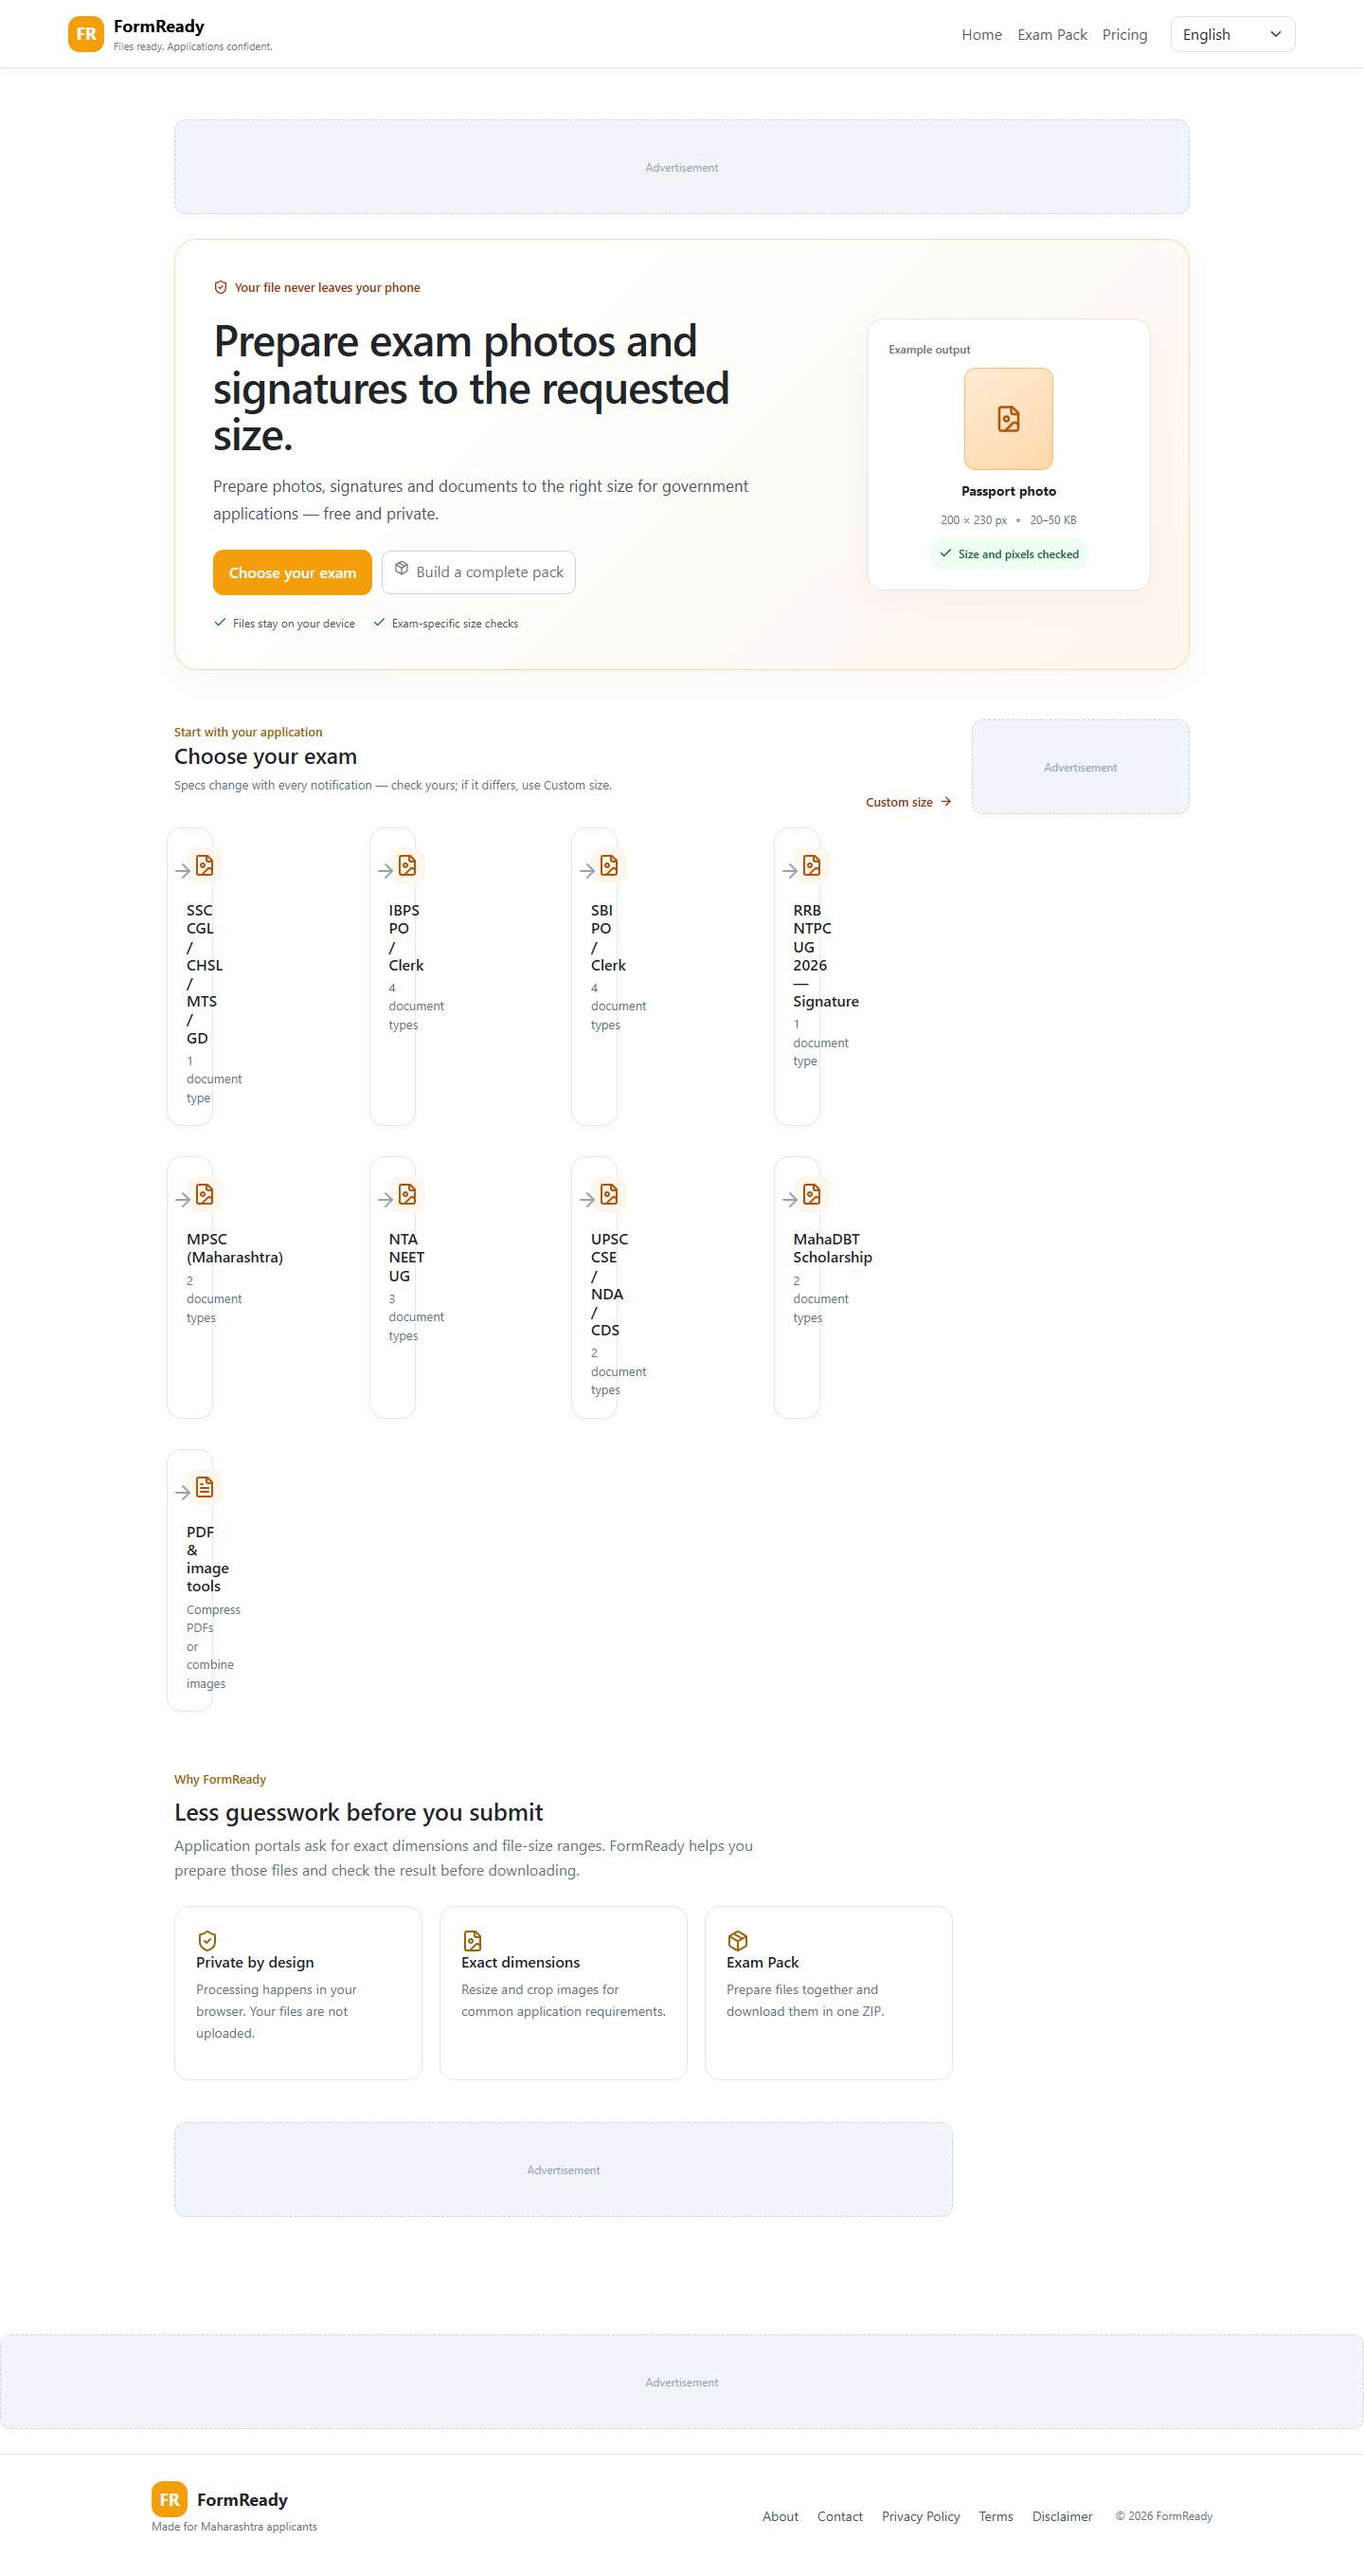
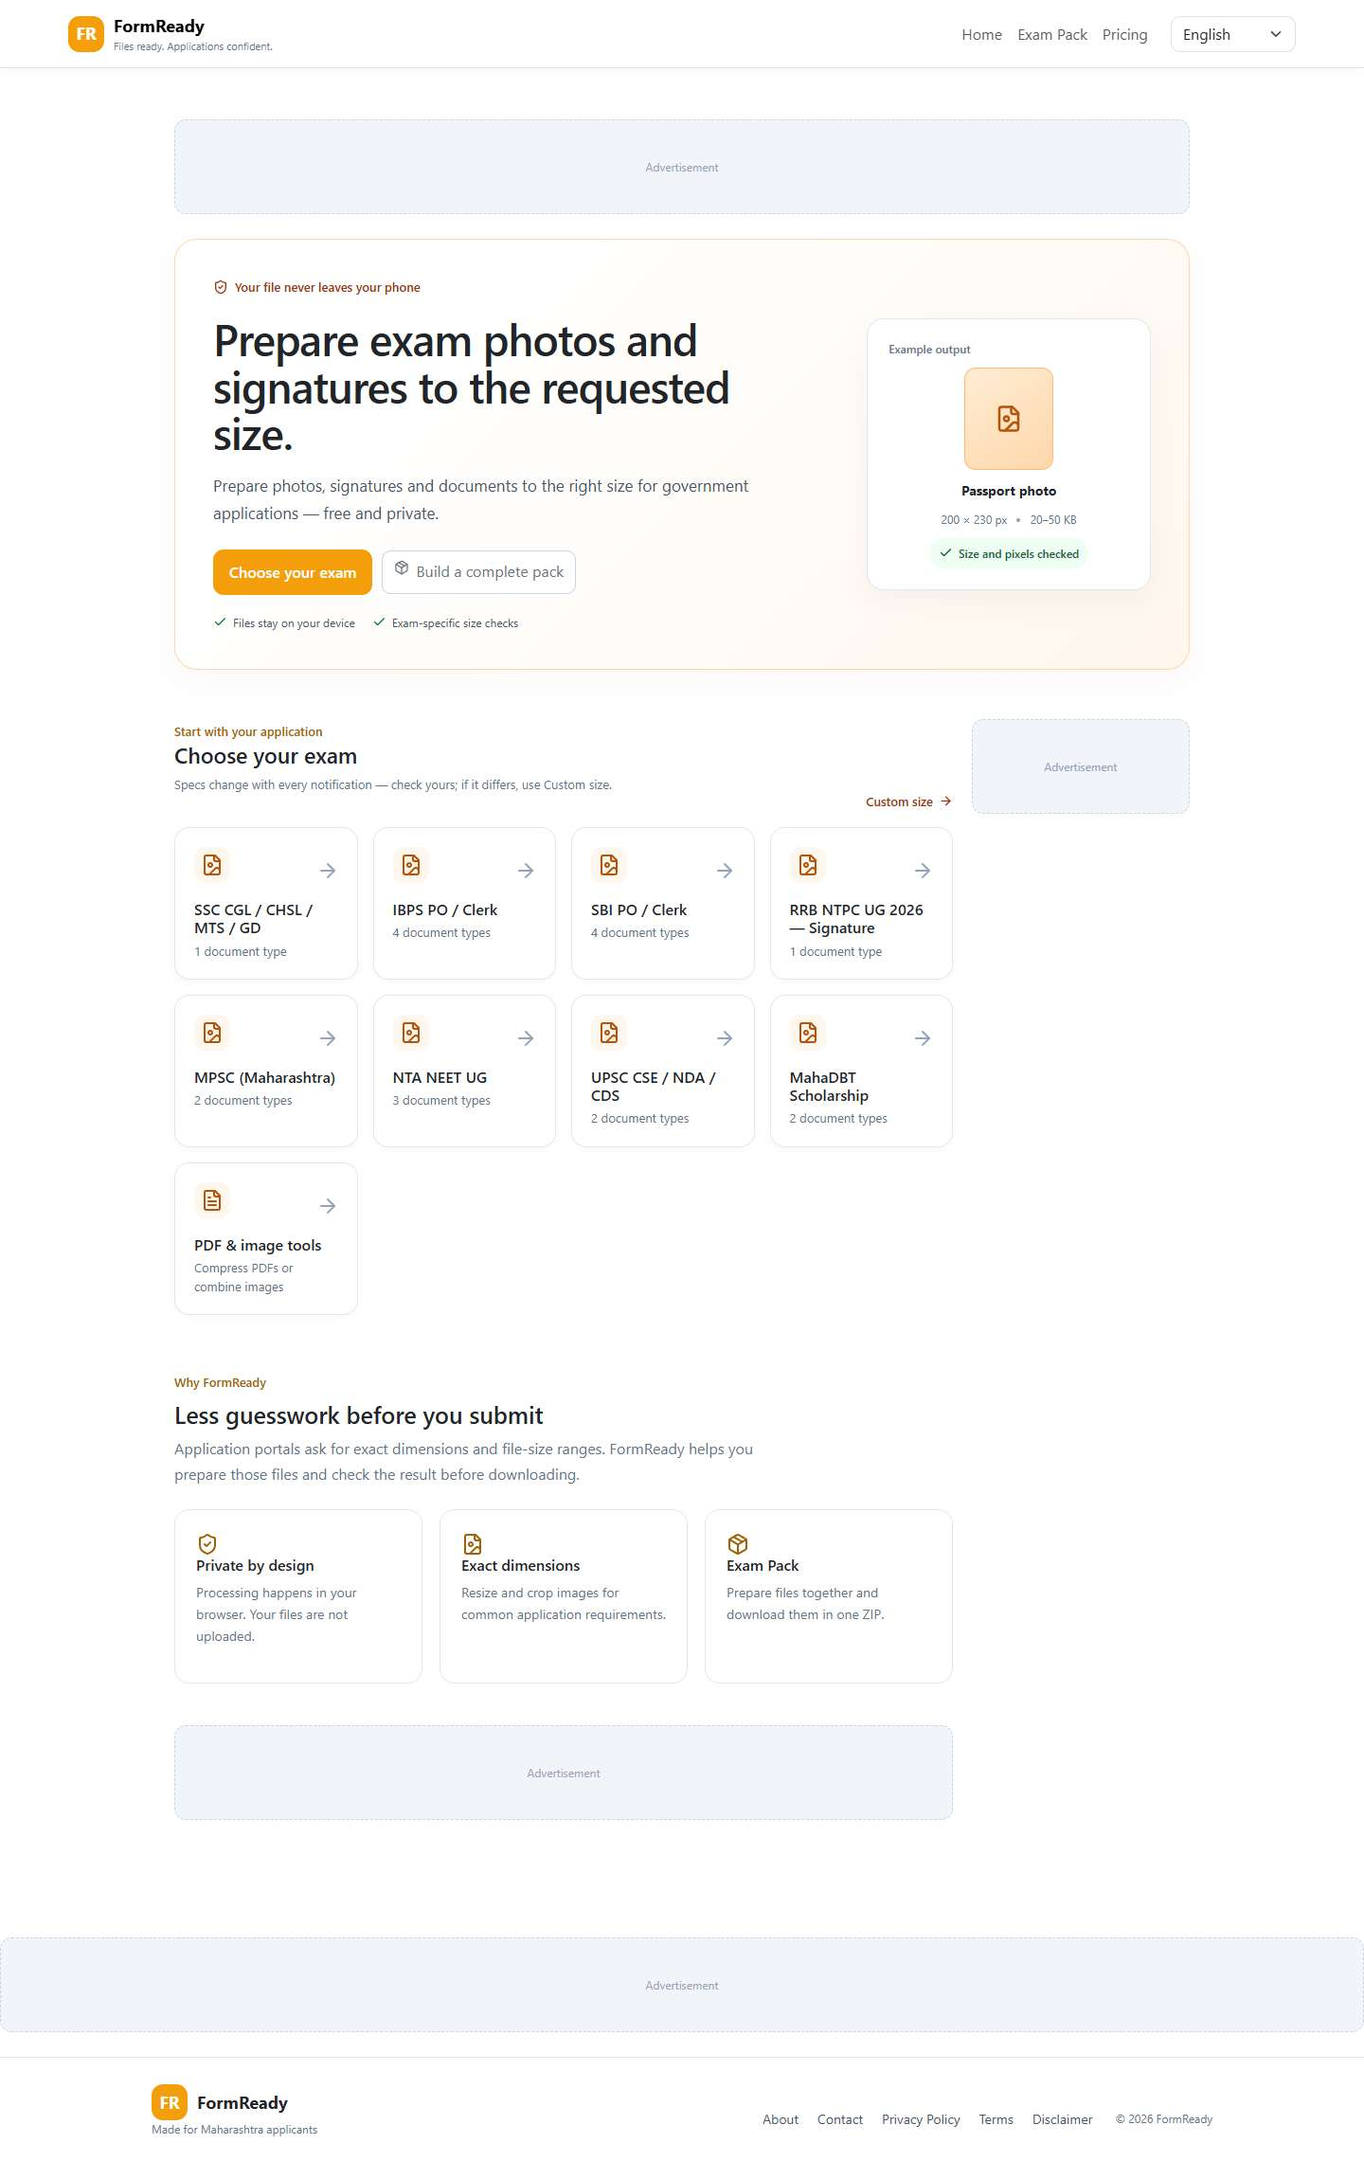
Fix responsive home exam card grid

diff --git a/src/components/HomePage.jsx b/src/components/HomePage.jsx
@@ -34,13 +34,13 @@ export default function HomePage({ t }) {
           <div><span className="eyebrow">{t.homeToolsEyebrow}</span><h2>{t.chooseExam}</h2><p>{t.notice}</p></div>
           <Link className="text-link" to="/tool/custom">{t.custom}<ArrowRight size={15} /></Link>
         </div>
-        <div className="grid row row-cols-1 row-cols-sm-2 row-cols-xl-4 g-3">
-          {presets.map(p => <Link className="tool-card col" key={p.id} to={'/tool/' + p.id}>
+        <div className="row row-cols-1 row-cols-sm-2 row-cols-xl-4 g-3">
+          {presets.map(p => <div className="col" key={p.id}><Link className="tool-card d-block h-100" to={'/tool/' + p.id}>
             <span className="iconbox"><FileImage /></span><span className="card-arrow"><ArrowRight /></span>
             <h3>{t[`preset_${p.id}`] || p.name}</h3>
             <p>{p.slots.length} {p.slots.length === 1 ? t.documentTypeOne : t.documentTypes}</p>
-          </Link>)}
-          <Link className="tool-card col" to="/tool/pdf"><span className="iconbox"><FileText /></span><span className="card-arrow"><ArrowRight /></span><h3>{t.pdfTools}</h3><p>{t.pdfDesc}</p></Link>
+          </Link></div>)}
+          <div className="col"><Link className="tool-card d-block h-100" to="/tool/pdf"><span className="iconbox"><FileText /></span><span className="card-arrow"><ArrowRight /></span><h3>{t.pdfTools}</h3><p>{t.pdfDesc}</p></Link></div>
         </div>
 
         <section className="value-section">

diff --git a/TEST-REPORT.md b/TEST-REPORT.md
@@ -52,11 +52,12 @@ Razorpay Standard Checkout is wired through Vercel Functions at `api/payments/or
 - Selecting an exam after scrolling the home page now opens the tool at scroll position 0. Playwright asserts this route change in `tools/run-browser-checks.js`. Home in the navbar also returns to the top when already on `/`.
 - Crop is available in the single-file tool and every image slot in Exam Pack. Playwright moves both the Zoom and Rotate sliders before applying the crop; the processed result passes at **200 × 230 px / 27.7 KB** (`test-shots/browser-results.json`).
 - Language selection is a Bootstrap dropdown with English, Hindi, and Marathi options. The saved choice loads on the first render; Playwright switches to Hindi and reloads, and the Marathi audit also switches and reloads. Screenshots: `test-shots/mr-home.png`, `mr-tool.png`, `mr-pack.png`, `mr-pricing.png`. Hindi UI uses the same string-key set as English; translated strings cover navigation, controls, errors, pricing/payment UI, legal summaries and document labels. Remaining identical values are the brand, language names, access-code format, UPI ID acronym and copyright; exam names/abbreviations are intentionally preserved. Supplied exam guide bodies remain in English.
+- Home card grid regression found and fixed: Bootstrap grid columns now wrap each card in a `.col` instead of combining `.col` with the custom grid item. Latest screenshot review at 360, 768, and 1440 px shows the card grid at the expected one-, two-, and four-column widths. Evidence: `test-shots/home-fixed-360.png`, `home-fixed-768.png`, and `home-fixed-1440.png`.
 - Regression browser run: **PASS**. IBPS Pack outputs: photo 200×230 / 29.0 KB, signature 140×60 / 10.0 KB, thumb 240×240 / 35.3 KB, declaration 800×400 / 99.6 KB; all 4 checklist rows passed. ZIP contains exactly `photo.jpg`, `signature.jpg`, `thumb.jpg`, and `declaration.jpg`.
 - PDF regression: **PASS**. The generated 11,899.9 KB, three-page test PDF reached 130.6 KB against a 200 KB target. For an impossible 1 KB target, the UI reports the best achieved size, 6.7 KB, instead of a false success.
 - Consent regression: **PASS**. Declined-consent image processing completed with zero page errors and no analytics or ad scripts.
 - Payment regression: **PASS**, five automated tests; mocked browser checkout persists unlock after reload and hides ads in the active Pack.
-- Build: **PASS**. The application JS entry is 462.33 KB (140.83 KB gzip), up from 356.33 KB before Bootstrap. Lazy chunks remain separated: HEIC 1,352.13 KB, PDF tool 420.90 KB, PDF route 430.17 KB, and JSZip 95.93 KB. The existing pdf.js worker is 1,264.34 KB; Vite warns about the worker and HEIC chunk sizes. Bootstrap CSS plus app CSS totals 244.68 KB (34.77 KB gzip).
+- Build: **PASS**. The application JS entry is 462.44 KB (140.84 KB gzip), up from 356.33 KB before Bootstrap. Lazy chunks remain separated: HEIC 1,352.13 KB, PDF tool 420.90 KB, PDF route 430.17 KB, and JSZip 95.93 KB. The existing pdf.js worker is 1,264.34 KB; Vite warns about the worker and HEIC chunk sizes. Bootstrap CSS plus app CSS totals 244.68 KB (34.77 KB gzip).
 
 ## Owner setup remaining
 
